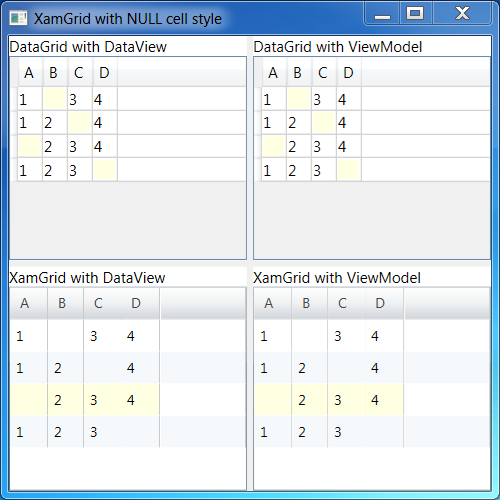
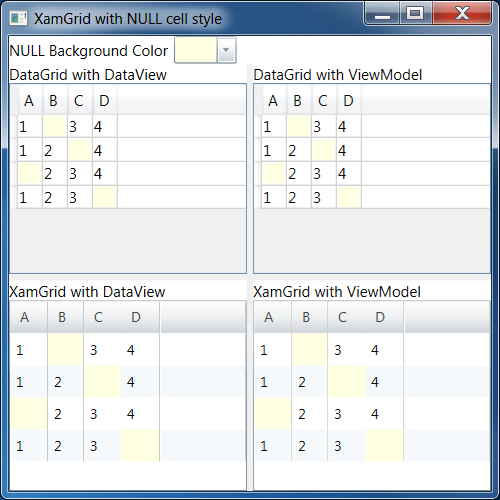
Added XamColorPicker to choose background color

diff --git a/MainWindow.xaml b/MainWindow.xaml
@@ -1,5 +1,6 @@
 <Window
 	x:Class="XamGridNullCellStyle.MainWindow"
+	x:Name="ThisWindow"
 	xmlns="http://schemas.microsoft.com/winfx/2006/xaml/presentation"
 	xmlns:x="http://schemas.microsoft.com/winfx/2006/xaml"
 	xmlns:d="http://schemas.microsoft.com/expression/blend/2008"
@@ -18,7 +19,8 @@
 		<local:IsNullConverter x:Key="IsNullConverter"/>
 
 		<!-- Background color for null values -->
-		<SolidColorBrush x:Key="NullCellBrush" Color="#FFFFFFE1"/>
+		<!--<SolidColorBrush x:Key="NullCellBrush" Color="#FFFFFFE1"/>-->
+		<SolidColorBrush x:Key="NullCellBrush" Color="{Binding Path=DataContext.NullBackgroundColor, ElementName=ThisWindow}"/>
 
 		<!--
 		Technically, this doesn't apply the style to null (or DBNull.Value) values,
@@ -133,12 +135,22 @@
 			<ColumnDefinition Width="*"/>
 		</Grid.ColumnDefinitions>
 		<Grid.RowDefinitions>
+			<RowDefinition Height="Auto"/>
 			<RowDefinition Height="*"/>
 			<RowDefinition Height="Auto"/>
 			<RowDefinition Height="*"/>
 		</Grid.RowDefinitions>
 
-		<Grid Grid.Column="0" Grid.Row="0">
+		<Grid Grid.ColumnSpan="3" Grid.Row="0">
+			<Grid.ColumnDefinitions>
+				<ColumnDefinition Width="Auto"/>
+				<ColumnDefinition Width="Auto"/>
+			</Grid.ColumnDefinitions>
+			<TextBlock Grid.Column="0" Text="NULL Background Color" VerticalAlignment="Center"/>
+			<ig:XamColorPicker Grid.Column="1" Margin="5,0,5,0" MinWidth="50" SelectedColor="{Binding NullBackgroundColor, UpdateSourceTrigger=PropertyChanged, Mode=TwoWay}" />
+		</Grid>
+
+		<Grid Grid.Column="0" Grid.Row="1">
 			<Grid.RowDefinitions>
 				<RowDefinition Height="Auto"/>
 				<RowDefinition Height="*"/>
@@ -174,7 +186,7 @@
 			</DataGrid>
 		</Grid>
 
-		<Grid Grid.Column="2" Grid.Row="0">
+		<Grid Grid.Column="2" Grid.Row="1">
 			<Grid.RowDefinitions>
 				<RowDefinition Height="Auto"/>
 				<RowDefinition Height="*"/>
@@ -209,7 +221,7 @@
 			</DataGrid>
 		</Grid>
 
-		<Grid Grid.Column="0" Grid.Row="2">
+		<Grid Grid.Column="0" Grid.Row="3">
 			<Grid.RowDefinitions>
 				<RowDefinition Height="Auto"/>
 				<RowDefinition Height="*"/>
@@ -241,23 +253,7 @@
 			</ig:XamGrid>
 		</Grid>
 
-		<GridSplitter Focusable="False"
-					  HorizontalAlignment="Right"
-					  VerticalAlignment="Stretch"
-					  Grid.Column="1"
-					  Grid.RowSpan="3"
-					  ResizeBehavior="PreviousAndNext"
-					  Width="5" />
-
-		<GridSplitter Focusable="False"
-					  HorizontalAlignment="Stretch"
-					  VerticalAlignment="Top"
-					  Grid.ColumnSpan="3"
-					  Grid.Row="1"
-					  ResizeBehavior="PreviousAndNext"
-					  Height="5" />
-
-		<Grid Grid.Column="2" Grid.Row="2">
+		<Grid Grid.Column="2" Grid.Row="3">
 			<Grid.RowDefinitions>
 				<RowDefinition Height="Auto"/>
 				<RowDefinition Height="*"/>
@@ -374,5 +370,22 @@
 				</ig:XamGrid.Columns>
 			</ig:XamGrid>
 		</Grid>
+
+		<GridSplitter Focusable="False"
+					  HorizontalAlignment="Right"
+					  VerticalAlignment="Stretch"
+					  Grid.Column="1"
+					  Grid.Row="1"
+					  Grid.RowSpan="3"
+					  ResizeBehavior="PreviousAndNext"
+					  Width="5" />
+
+		<GridSplitter Focusable="False"
+					  HorizontalAlignment="Stretch"
+					  VerticalAlignment="Top"
+					  Grid.ColumnSpan="3"
+					  Grid.Row="2"
+					  ResizeBehavior="PreviousAndNext"
+					  Height="5" />
 	</Grid>
 </Window>

diff --git a/MainViewModel.cs b/MainViewModel.cs
@@ -5,6 +5,7 @@ using System.Data;
 using System.Linq;
 using System.Text;
 using System.Threading.Tasks;
+using System.Windows.Media;
 
 namespace XamGridNullCellStyle
 {
@@ -12,6 +13,8 @@ namespace XamGridNullCellStyle
     {
         public MainViewModel()
         {
+            NullBackgroundColor = (Color)ColorConverter.ConvertFromString("#FFFFFFE1");
+
             var table = new DataTable("Data");
             table.Columns.AddRange(new[]
             {
@@ -28,6 +31,24 @@ namespace XamGridNullCellStyle
 
             DataView = table.DefaultView;
             BuildTestData(table);
+        }
+
+        private Color? _nullBackgroundColor;
+        public Color? NullBackgroundColor
+        {
+            get { return _nullBackgroundColor; }
+            set
+            {
+                SetField(ref _nullBackgroundColor, value);
+                NullBackgroundBrush = (value != null) ? new SolidColorBrush(value.Value) : null;
+                RaisePropertyChanged("NullBackgroundBrush");
+            }
+        }
+
+        public Brush NullBackgroundBrush
+        {
+            get;
+            private set;
         }
 
         private DataView _dataView;
